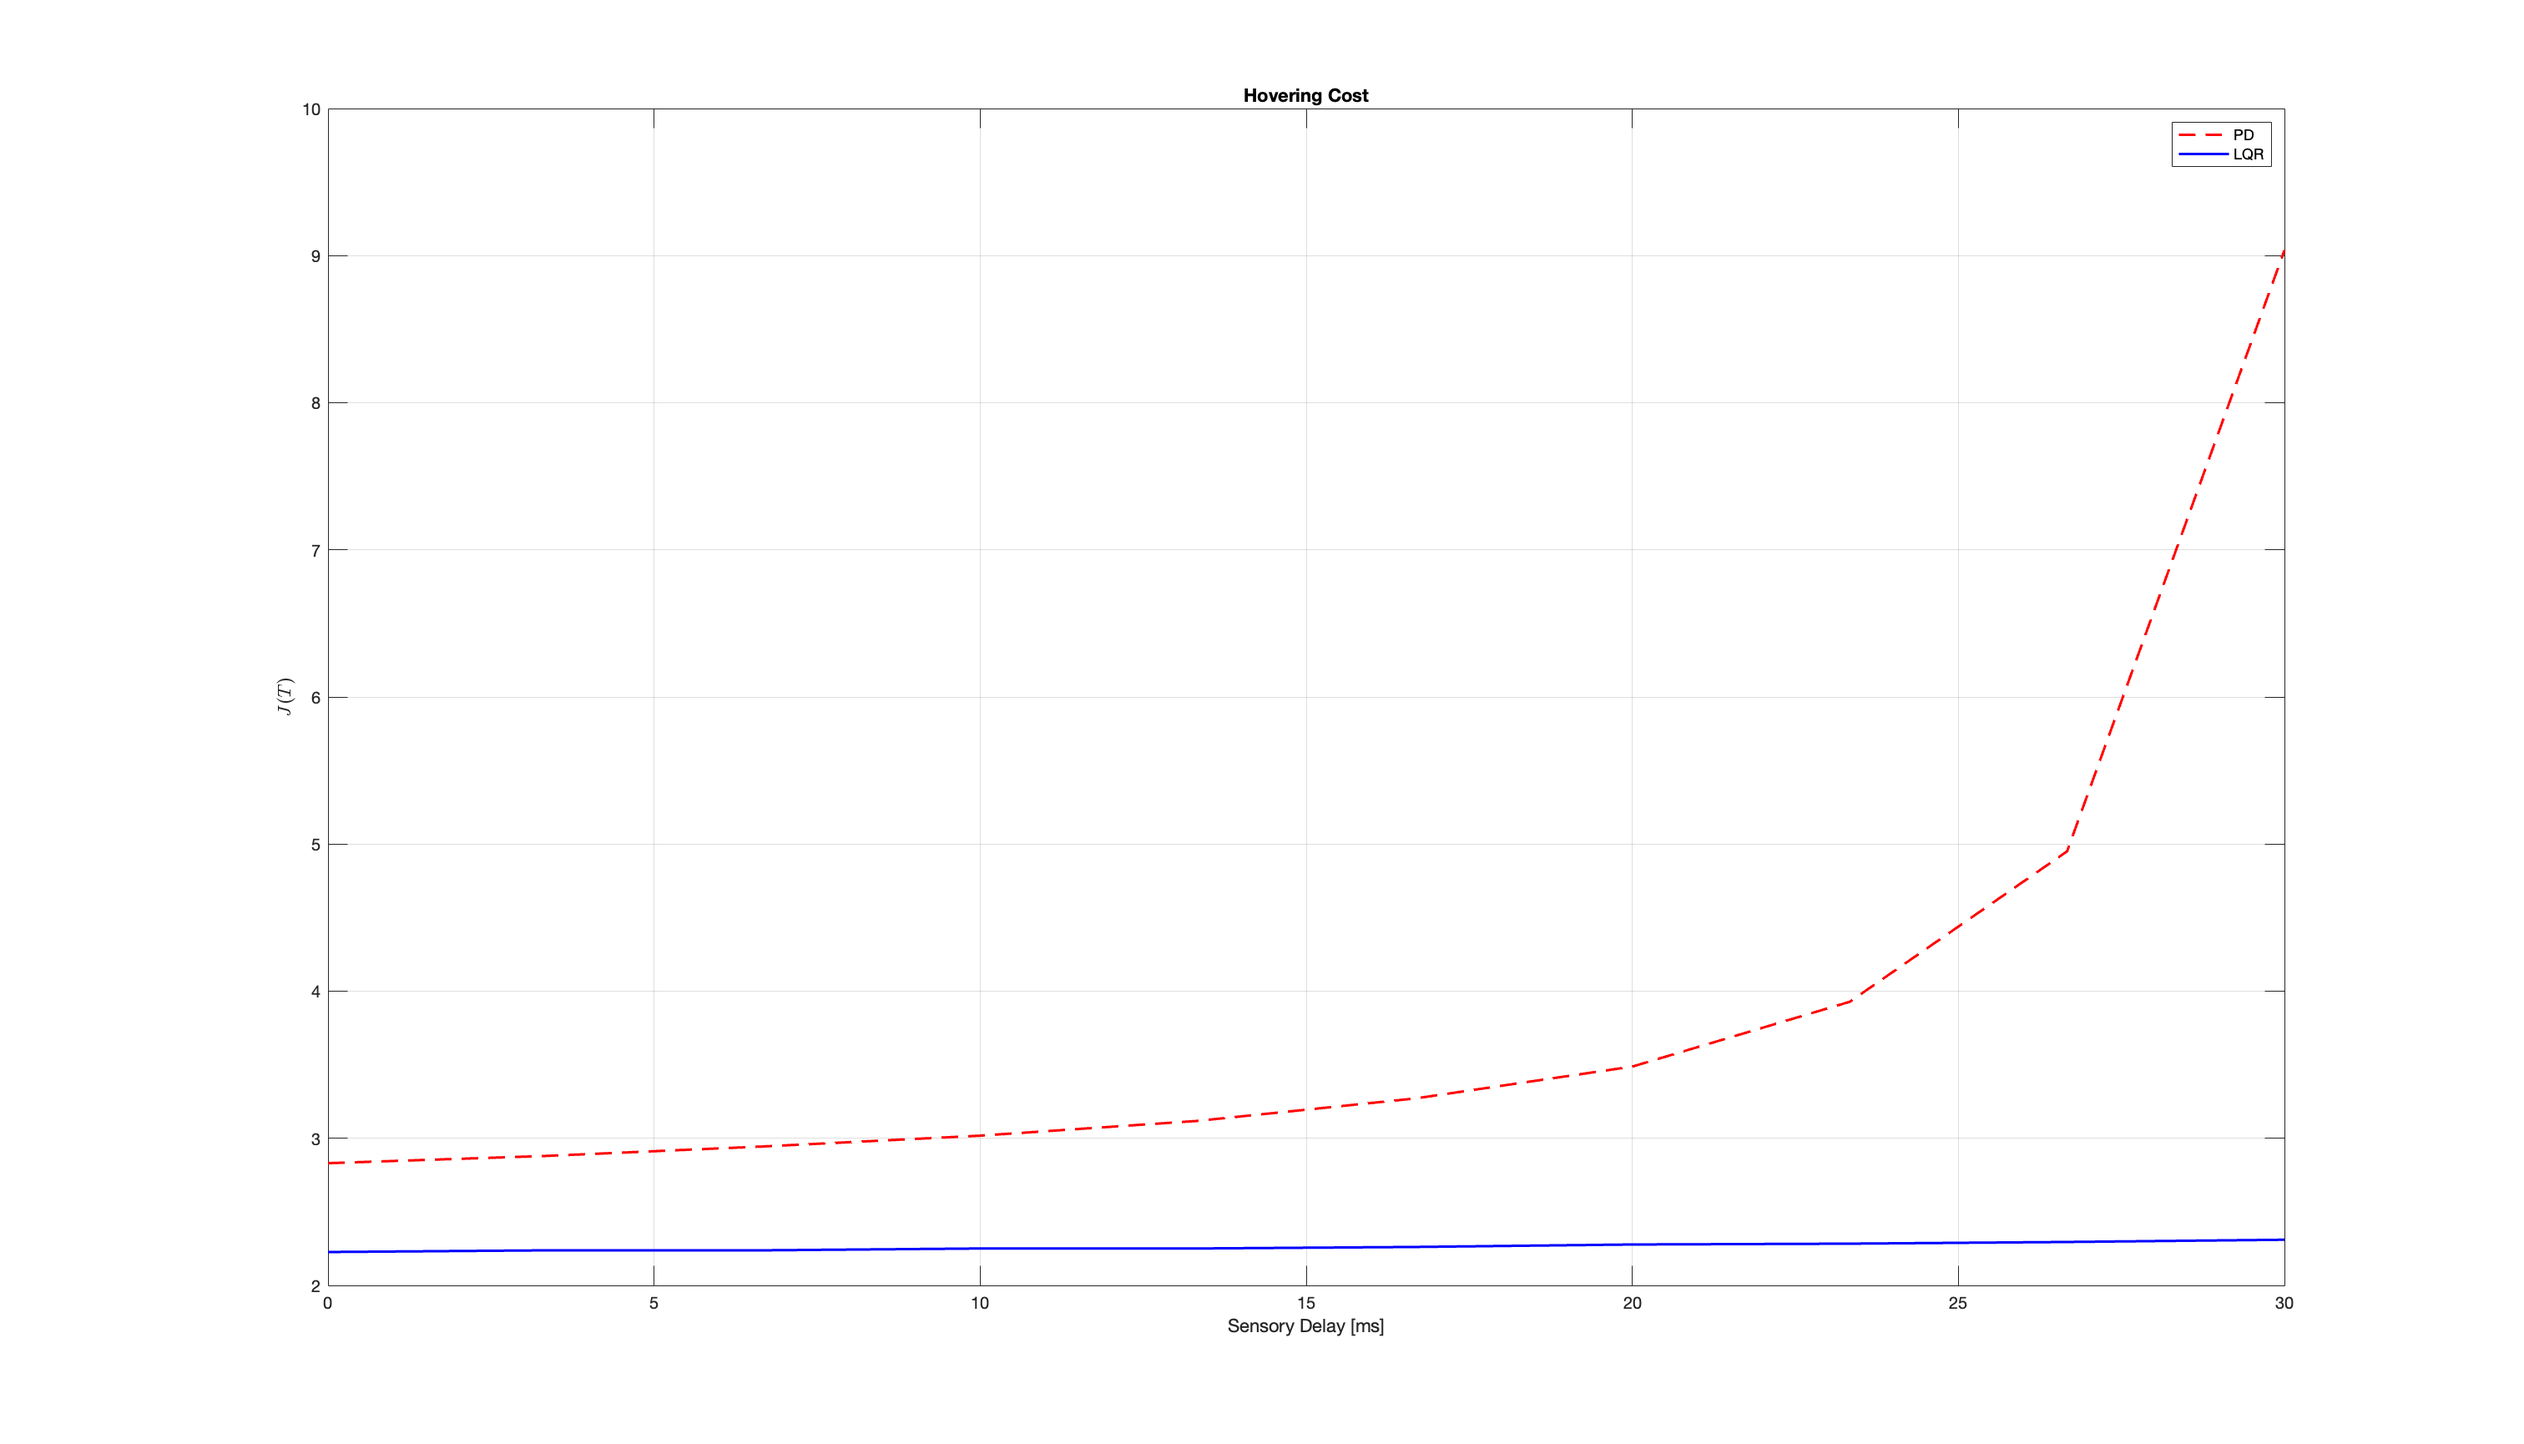
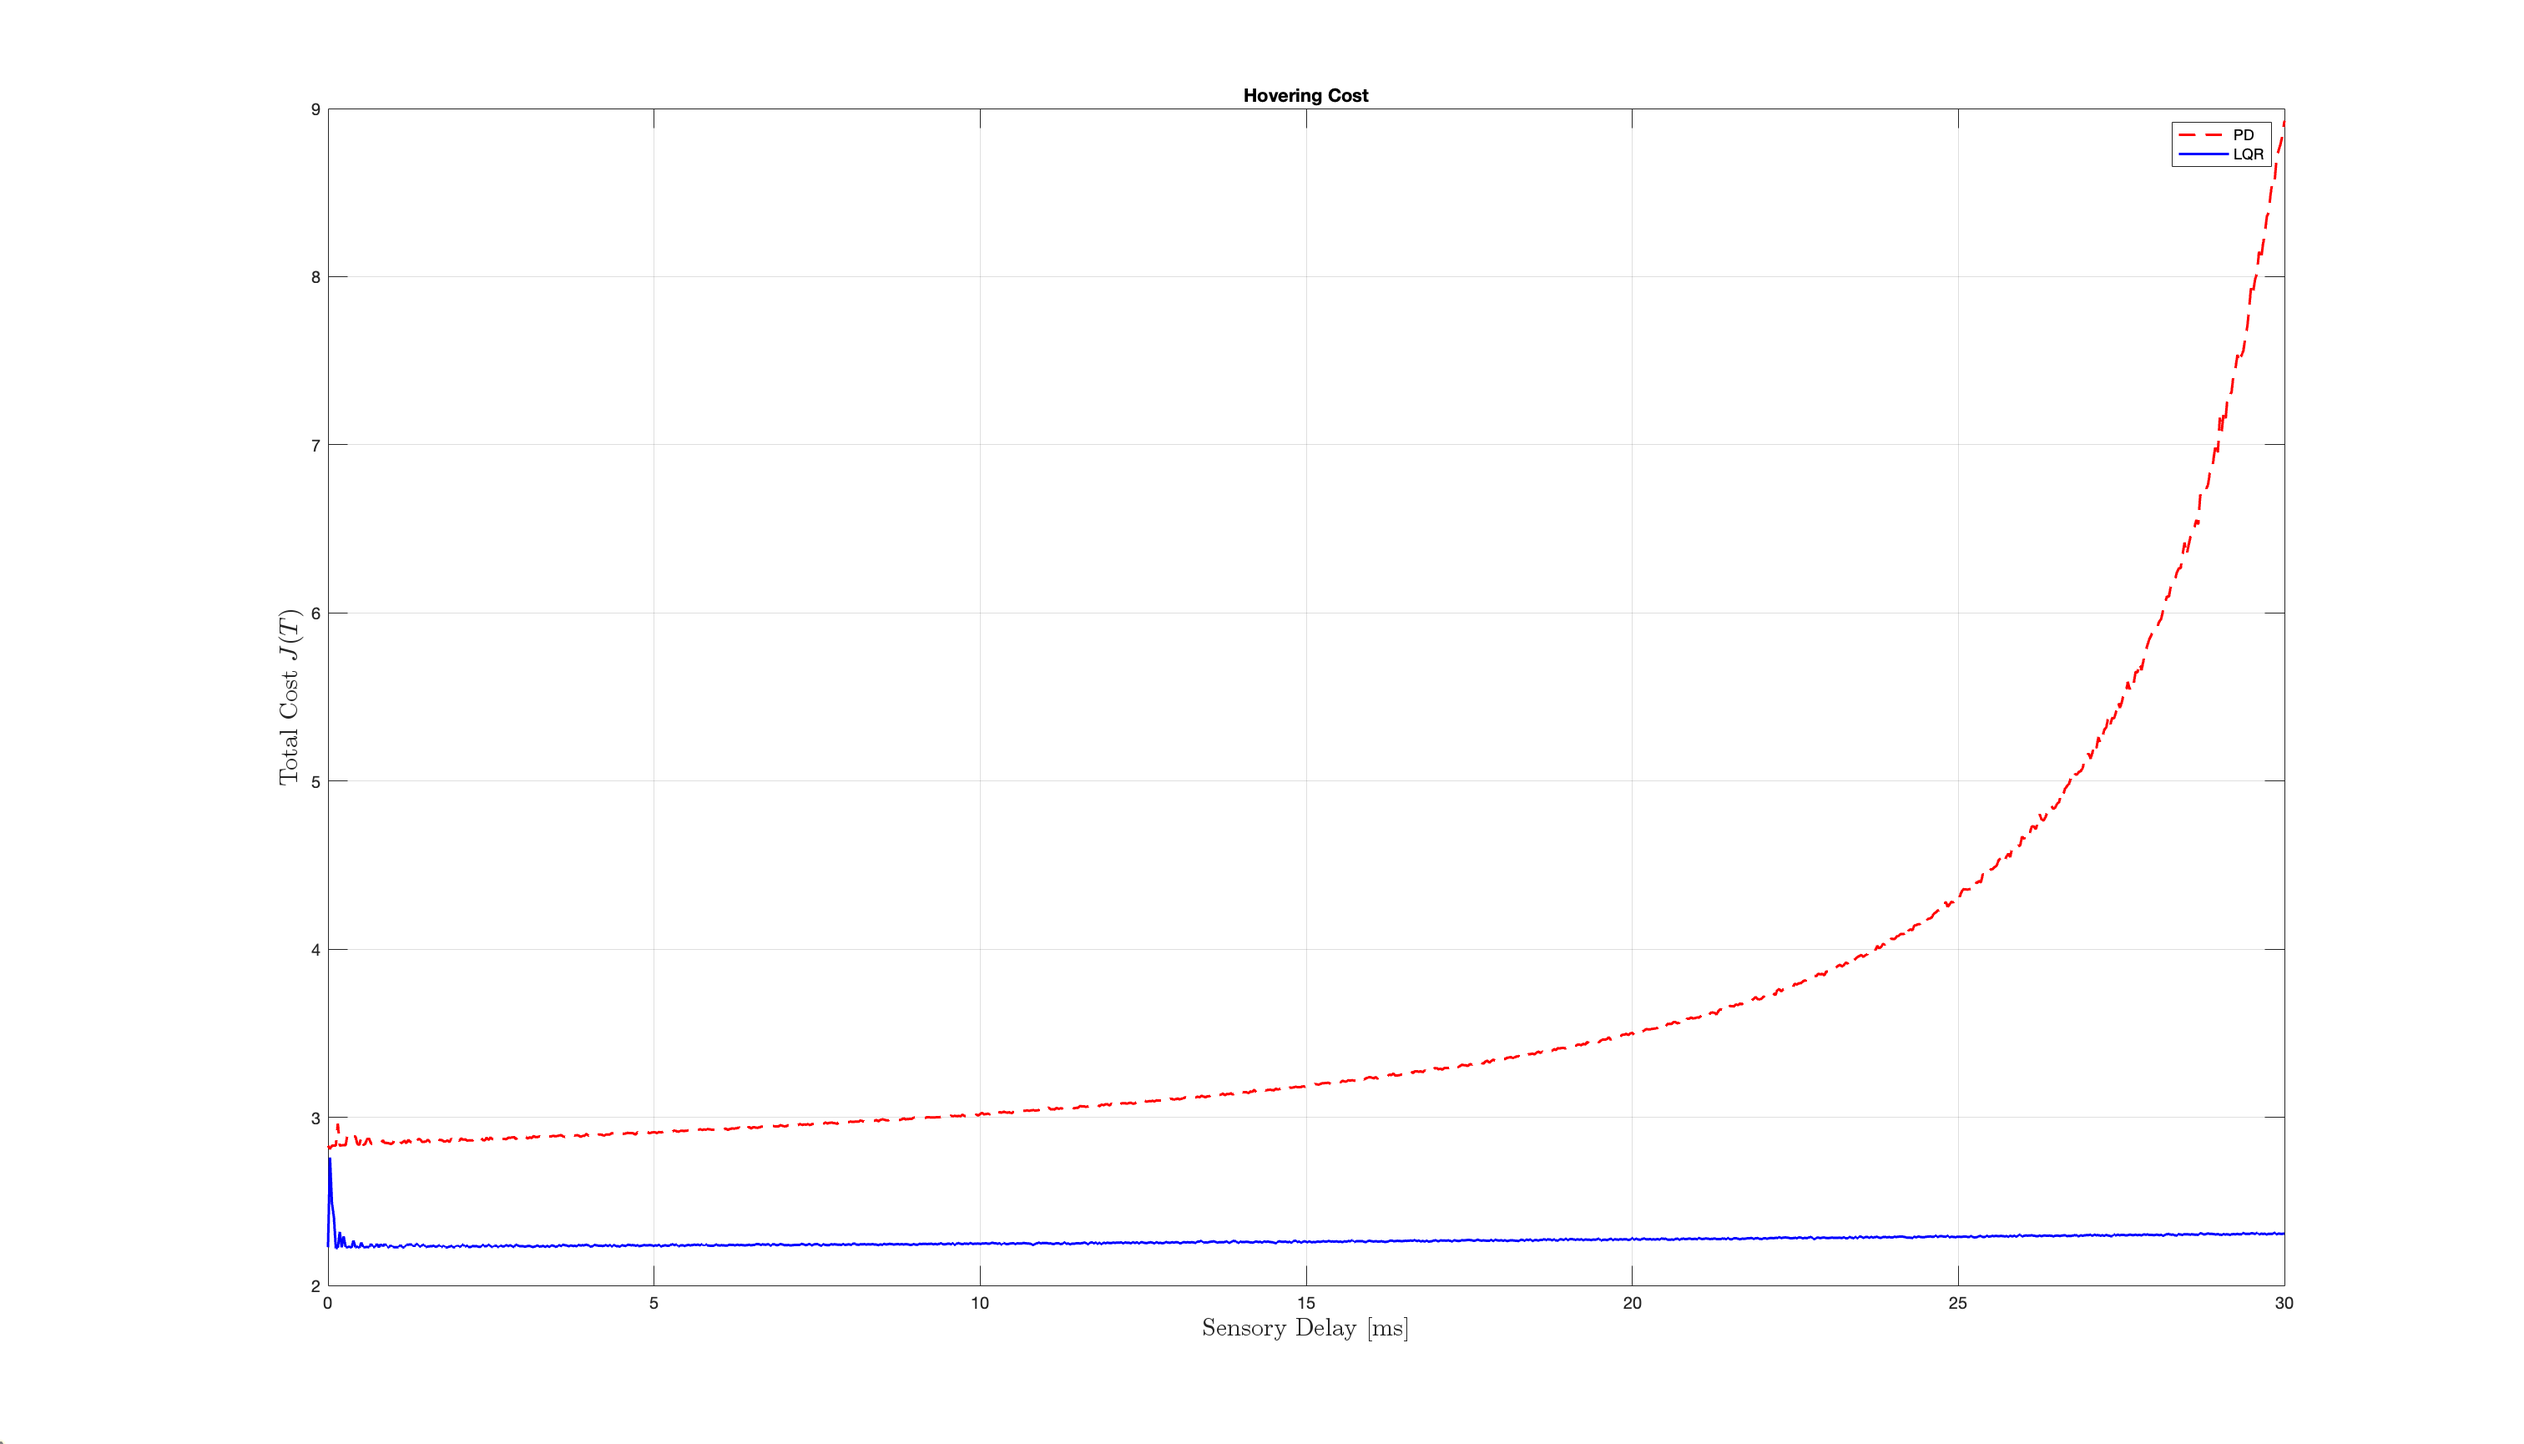
Updated Plots

diff --git a/moment_sweep__test.m b/moment_sweep__test.m
@@ -3,7 +3,7 @@ clear, clc, close all
 rng(0);
 
 %% Perform Parameter Sweep
-Niter = 100; % Number of iterations, increase this for smoother plots
+Niter = 1000; % Number of iterations, increase this for smoother plots
 Ilb = 290; % Moment of inertia lower bound
 Iub = 5000; % Moment of inertia upper bound
 I_range = linspace(Ilb, Iub, Niter); % Moment of inertia range
